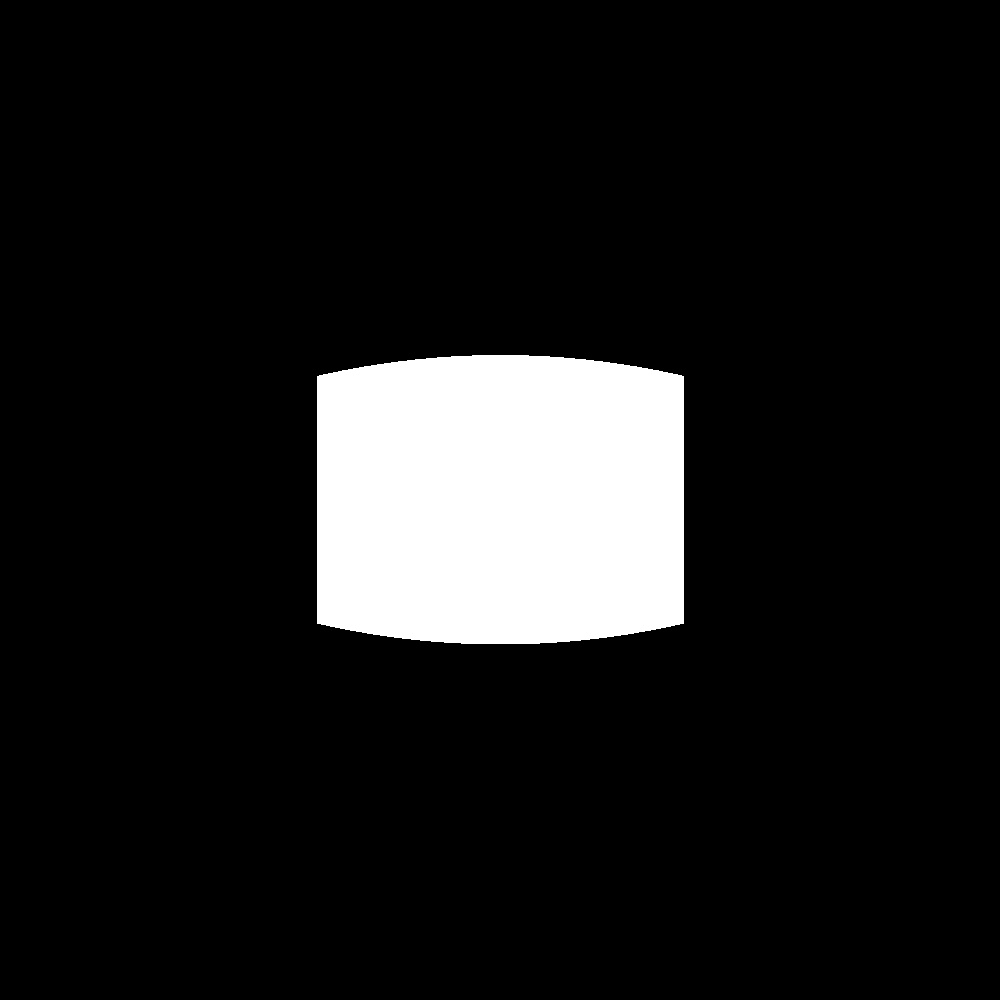
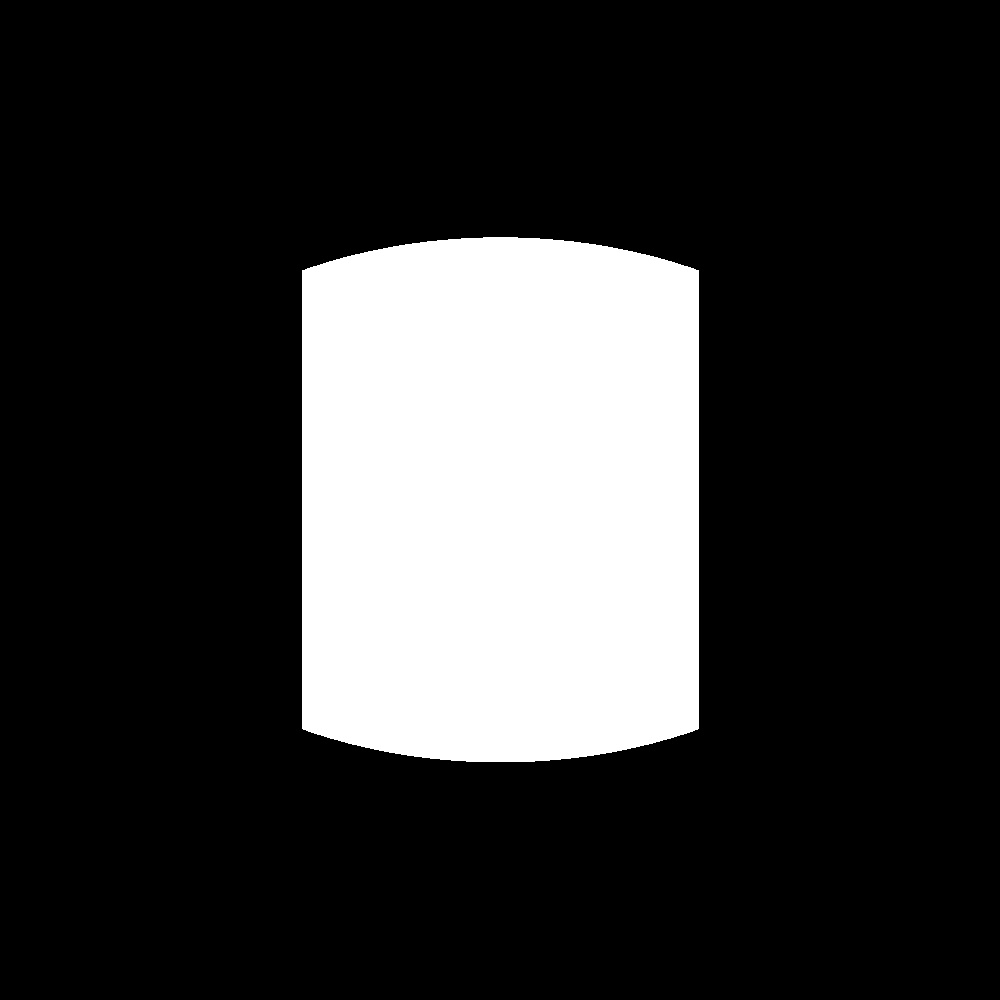
Added camera model

Changed region(s): [[0.279, 0.217, 0.713, 0.775]]

diff --git a/src/tests/ransac_test.cpp b/src/tests/ransac_test.cpp
@@ -4,6 +4,7 @@
 #include <opencv2/highgui/highgui.hpp>
 #include <cv_bridge/cv_bridge.h>
 #include <sensor_msgs/Image.h>
+#include <sensor_msgs/CameraInfo.h>
 #include <std_msgs/Header.h>
 #include <panoramic/SphericalStitch.h>
 #include <iostream>
@@ -17,16 +18,16 @@ int main(int argc, char** argv)
   std::stringstream ss;
   std::string p_path = ros::package::getPath("panoramic");
   std::string first_path, second_path, third_path;
-  ss << p_path << "/res/images/classroom_test_1.jpg";
+  ss << p_path << "/res/images/study_room_0.jpg";
   
   first_path = ss.str();
   ss.str(std::string());
   ss.clear();
-  ss << p_path << "/res/images/classroom_test_2.jpg";
+  ss << p_path << "/res/images/study_room_1.jpg";
   second_path = ss.str();
   ss.str( std::string() );
   ss.clear();
-  ss << p_path << "/res/images/classroom_test_3.jpg";
+  ss << p_path << "/res/images/study_room_2.jpg";
   third_path = ss.str();
 
   panoramic::SphericalStitch test_stitch;
@@ -49,6 +50,26 @@ int main(int argc, char** argv)
     test_stitch.request.queue.push_back( first_im );
     test_stitch.request.queue.push_back( second_im );
     test_stitch.request.queue.push_back( third_im );
+
+    // Define the camera model from camera calibration
+    sensor_msgs::CameraInfo ci;
+    ci.distortion_model = std::string("plumb_bob");
+    ci.K[0] = 597.047010;
+    ci.K[1] = 0.0;
+    ci.K[1] = 325.596134;
+    ci.K[1] = 0.0;
+    ci.K[1] = 596.950842;
+    ci.K[1] = 211.872049;
+    ci.K[1] = 0.0;
+    ci.K[1] = 0.0;
+    ci.K[1] = 1.0;
+
+    ci.D[0] = 0.013417;
+    ci.D[1] = -0.105440;
+    ci.D[2] = -0.016704;
+    ci.D[3] = -0.002854;
+    ci.D[4] = 0.0;
+    test_stitch.request.camera_info = ci;
     
     ros::ServiceClient p_client = nh.serviceClient<panoramic::SphericalStitch>("stitch");
     if(p_client.call( test_stitch )) {

diff --git a/src/panoramic/Panoramic.cpp b/src/panoramic/Panoramic.cpp
@@ -41,8 +41,20 @@ bool Panoramic::stitch(SphericalStitchRequest& req, SphericalStitchResponse& res
   std::vector<WarpedPair> image_queue;
   for( int i = 0; i < req.queue.size(); i++ ) {
     cv_bridge::CvImagePtr input_image = cv_bridge::toCvCopy( req.queue[i], sensor_msgs::image_encodings::BGR8 );
+    
+    cv::Mat& input_uncalibrated = input_image->image;
+    cv::Mat input_calibrated;
+    cv::Mat K(3, 3, CV_64FC3);
+    cv::Mat D(1, 5, CV_64FC3);
+    // Fix any spherical distortion in the image using the camera information
+    if(std::string("plumb_bob") == req.camera_info.distortion_model) {
+      K.at<double>(0,0) = req.camera_info.K[0];
+      cv::undistort(input_uncalibrated, input_calibrated, K, D);
+    }
+    else input_calibrated = input_image->image;
+
     cv::Mat warp, mask( phi_res, theta_res, CV_8UC1, cv::Scalar(0) );
-    warp = warp_to_hsphere( input_image->image, phi_res, theta_res, s, mask );
+    warp = warp_to_hsphere( input_calibrated, phi_res, theta_res, s, mask );
     image_queue.push_back( WarpedPair( warp, mask ) );
   }
 

diff --git a/include/panoramic/Panoramic.hpp b/include/panoramic/Panoramic.hpp
@@ -11,6 +11,8 @@
 #include <opencv2/highgui/highgui.hpp>
 #include <cv_bridge/cv_bridge.h>
 #include <sensor_msgs/image_encodings.h>
+#include <sensor_msgs/Image.h>
+#include <sensor_msgs/CameraInfo.h>
 #include <panoramic/SphericalStitch.h>
 #include <vector>
 #include <cmath>
